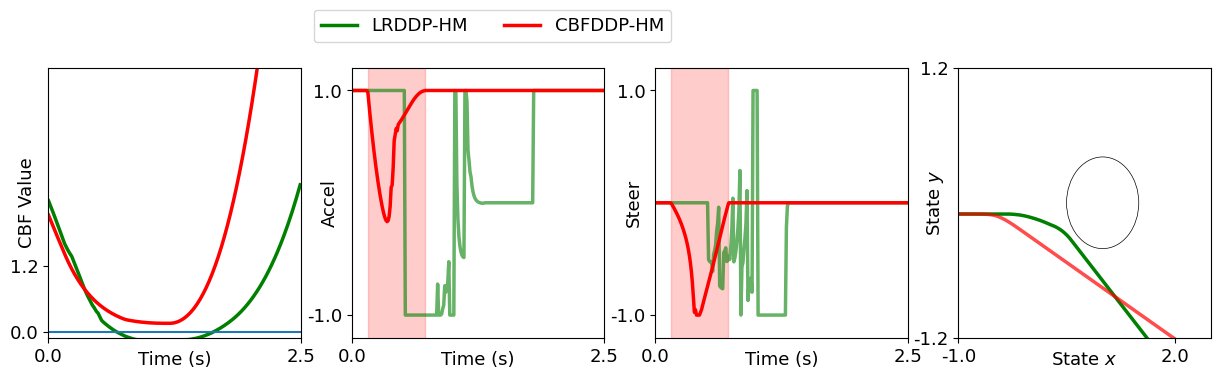
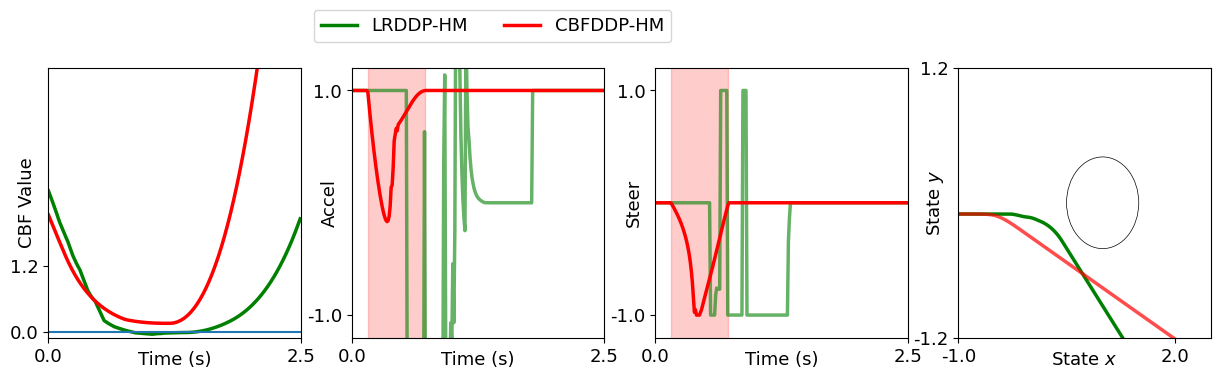
bic4d

diff --git a/cbfs_and_costs_bic4d.py b/cbfs_and_costs_bic4d.py
@@ -264,7 +264,7 @@ class MultiCBF_c:
         if idx==0 or idx==1:
             return 2*self.P
         elif idx==2:
-            return 1e-3*np.eye(4)
+            return 1e-6*np.eye(4)
 
 
 class MultiCBF_d:
